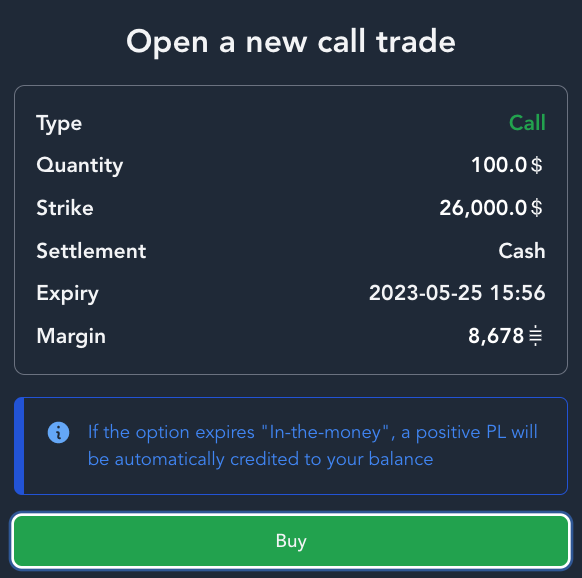
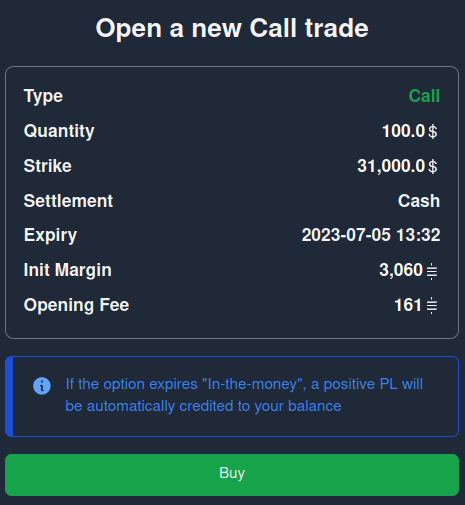
update options

diff --git a/src/faq/trading_options.md b/src/faq/trading_options.md
@@ -19,7 +19,7 @@ When we designed our options trading offering, we paid attention to making it si
 - They are all 24-hour options: they expire 1 day after opening the position (you can close them at any time before expiry).
 - The underlying of the option is the LNM perpetual future. The forward is the price of this future discounted at the time of expiry. Note that the forward is very close not to say equal to the price of the future because the expiry is only 24h.
 - We quote Bitcoin options with BTC as domestic currency, like is the case for inverse futures. Which means that the forward price parameter is expressed as USD/BTC. However, we display it as BTC/USD for simplicity reasons.
-- The Strike price parameter (price at which the option can be exercised) is expressed as USD/BTC, since BTC is the domestic currency. However, we display it as BTC/USD for simplicity reasons. We list 3 strikes 3 strikes for calls (next thousand down and 2 next thousands up) and for puts (next thousand up and two next thousands down), and 2 strikes for straddles (the two common to calls and puts).
+- The Strike price parameter (price at which the option can be exercised) is expressed as USD/BTC, since BTC is the domestic currency. However, we display it as BTC/USD for simplicity reasons. We list 3 strikes for calls (next thousand down and 2 next thousands up) and for puts (next thousand up and two next thousands down), and 2 strikes for straddles (the two common to calls and puts).
 For example, if bid price = 45,684.5 and offer price = 45,749.86:
     for call: Strike 1 = K1 = 45,000; Strike 2 =  K2 = 46,000; Strike 3 =  K3 = 47,000
     for put: Strike 1 = K1 = 46,000; Strike 2 =  K2 = 45,000; Strike 3 =  K3 = 44,000
@@ -29,7 +29,7 @@ With Cash delivery, you receive the PL of the option at the expiry = Max(Xt - K,
 With Physical delivery, if the option is “In-The-Money” at expiry, you receive delivery of a futures contract running for the given strike. This futures contract can be managed in the Futures section.
 - For the Volatility (%) parameter, we compute an implied volatility from market prices, which gives an indication of the expected movement of the underlying.
 - Delta is a risk metric that estimates the change in price of the option, given a 1 unit change in its underlying asset. It is computed with Black Scholes formula. With Bitcoin as a domestic currency, Delta is expressed in USD. It corresponds to the number of BTCUSD future contracts you would have to sell or buy to be delta hedged.
-- Margin is the premium of the option, expressed in sats. It is computed with Black Scholes formula, and depends on the volatility and the forward price. Margin corresponds to the amount you have to pay to buy a call or a put option. This amount is deducted from your Margin Available and added to your Margin Used.
+- Margin is the premium of the option, expressed in sats. It is equal to the option premium plus a maintenance margin. The option premium is computed with Black Scholes formula, and depends on the volatility and the forward price. The maintenance margin is the minimum amount to keep your position open (it includes closing fees). This margin amount is deducted from your Margin Available and added to your Margin Used.
 - Expiry is the exact time at which the option expires, 1 day after opening the position.
 
 ## How to trade options?
@@ -44,15 +44,18 @@ In order to trade options, the steps are:
 ## How to follow the life of an option?
 
 After buying an option, you can see it in the Running section of the deal blotter, at the bottom of the screen. Each line corresponds to an option, with:
-- Expiry of the option
 - Type: Call or Put
 - Quantity in USD
 - Strike
+- Expiry of the option
+- Delta (the Delta of a portfolio of options is the sum of all its Deltas)
+- Breakeven
+- Settlement: Cash or Physical
 - Volatility in %
 - Margin
 - PL = Mark-to-Market - margin (Mark-to-Market of the option is its price with the current volatility level, other parameters remaining the same)
-- Delta (the Delta of a portfolio of options is the sum of all its Deltas)
-- Settlement: Cash or Physical
+- Maintenance Margin
+
 
 In the risk section, on the lower left hand side of the screen, you can see in the PL section your global PL (sum of the PL of your options) and your global Delta (sum of the Deltas of your options).
 

diff --git a/src/es/faq/trading_options.md b/src/es/faq/trading_options.md
@@ -34,7 +34,7 @@ Con la entrega física, si la opción está "In-The-Money" al vencimiento, usted
 
 - La delta es una métrica de riesgo que estima el cambio en el precio de la opción, dado un cambio de 1 unidad en su activo subyacente. Se calcula con la fórmula de Black Scholes. Con Bitcoin como moneda doméstica, la Delta se expresa en USD. Corresponde al número de contratos futuros de BTCUSD que tendría que vender para estar cubierto por Delta. Al igual que con los futuros, tiene que pagar un margen para abrir el contrato de opciones (que corresponde a la prima de la opción).
 
-- El margen es la prima de la opción, expresada en sats. Se calcula con la fórmula de Black Scholes, y depende de la volatilidad y del precio a plazo. El margen corresponde a la cantidad que tiene que pagar para comprar una opción de compra o de venta. Esta cantidad se deduce de su Margen Disponible y se añade a su Margen Utilizado. 
+- El margen es la prima de la opción, expresada en sats. Es igual a la prima de la opción más un margen de mantenimiento. La prima de la opción se calcula con la fórmula de Black Scholes y depende de la volatilidad y el precio a plazo. El margen de mantenimiento es la cantidad mínima para mantener su posición abierta (incluye tarifas de cierre). El margen se deduce de su Margen Disponible y se añade a su Margen Utilizado. 
 
 - El vencimiento es el momento exacto en que la opción expira, 1 día después de la apertura de la posición.
 
@@ -50,15 +50,17 @@ Para operar con opciones, los pasos son los siguientes:
 ## ¿Cómo seguir la evolución de una opción?
 
 Después de comprar una opción, puede verla en el historial de operaciones, en la parte inferior de la pantalla. Cada línea corresponde a una opción, con las variables:
-- Vencimiento de la opción
 - Tipo: Call o Put
 - Cantidad en USD
 - Precio de ejercicio
-- Volatilidad en %
-- Margen
-- PL = Mark-to-Market - margen (el Mark-to-Market de la opción es su precio con el nivel de volatilidad actual, permaneciendo los demás parámetros iguales)
+- Vencimiento de la opción
 - Delta (la Delta de una cartera de opciones es la suma de todas sus Deltas)
+- Equilibrio
 - Liquidación: Efectivo o físico
+- Volatilidad en %
+- Margen Inicial
+- PL = Mark-to-Market - margen (el Mark-to-Market de la opción es su precio con el nivel de volatilidad actual, permaneciendo los demás parámetros iguales)
+- Margen de mantenimiento
 
 En la sección de riesgo, en la parte inferior izquierda de la pantalla, puede ver en la sección PL en su PL global (suma de los PL de sus opciones) y su Delta global (suma de los Deltas de sus opciones).
 

diff --git a/src/es/step/README.md b/src/es/step/README.md
@@ -103,9 +103,9 @@ Puede encontrar todas sus posiciones cerradas en el registro cerrado de la secci
 
 ## Operar Opciones
 
-LN Markets cotiza una oferta [bid] y una demanda [offer] (en la barra superior) y es la contraparte directa de todas las operaciones.
+LN Markets cotiza el precio de los Futuros (en la barra superior) y es la contraparte directa de todas las operaciones.
 
-En la sección de Opciones, puede negociar dos tipos de Opciones sobre el precio a plazo del BTCUSD: calls (opciones de compra) y puts (opciones de venta).
+En la sección de Opciones, puede negociar tres tipos de Opciones sobre el precio a plazo del BTCUSD: calls (opciones de compra) y puts (opciones de venta).
 
 <img :src="$withBase('/assets/options_trading.png')" alt="options_trading">
 
@@ -113,7 +113,7 @@ Queremos desmitificar las operaciones de opciones y hacerlas accesibles para tod
 - Sólo puedes comprar opciones. Si eres alcista, compra opciones de calls. Si eres bajista, compra opciones de puts. Si espera volatilidad pero no está seguro de la dirección, compre straddles.
 - Son opciones de 24 horas: expiran un día después de abrir la posición (puede cerrarlos en cualquier momento antes de que expiren).
 - Hay 3 strikes para las opciones de compra (el siguiente mil hacia abajo y los dos siguientes miles hacia arriba) y para las opciones de venta (el siguiente mil hacia arriba y los dos siguientes miles hacia abajo), y 2 strikes para las straddles (los dos comunes a call y put).
-- Al igual que con los futuros, tiene que pagar un margen para abrir el contrato de opciones (que corresponde a la prima de la opción).
+- Al igual que con los futuros, tiene que pagar un margen para abrir el contrato de opciones. Es igual a la prima de la opción más un margen de mantenimiento, que es la cantidad mínima para mantener su posición abierta (incluye tarifas de cierre). La tarifa de apertura se establece en 5 pb del nocional expresado en BTC al nivel de ejercicio (como el tarifa).
 - Para la entrega al vencimiento, puede elegir entre la entrega en efectivo (PL de la opción) o la entrega física: obtiene un contrato de futuros para el strike determinado.
 
 <img :src="$withBase('/assets/options_conf.png')" alt="options_conf">

diff --git a/src/step/README.md b/src/step/README.md
@@ -106,9 +106,9 @@ You can find all your closed positions in the Closed blotter in the lower sectio
 
 ## Options Trading
 
-We quote a bid-offer (in the upper bar) and we are direct counterparty to all trades.
+We quote a Futures price (in the upper bar) and we are direct counterparty to all trades.
 
-In the Options section, you can trade two types of Options on BTCUSD forward price: calls (options to buy), puts (options to sell) and straddles (combination of a call and a put for the same strike).
+In the Options section, you can trade three types of Options on BTCUSD forward price: calls (options to buy), puts (options to sell) and straddles (combination of a call and a put for the same strike).
 
 <img :src="$withBase('/assets/options_trading.png')" alt="options_trading">
 
@@ -116,7 +116,7 @@ We want to demystify options trading and make them accessible to all. That’s w
 - You can only buy options. If you’re a bull, buy calls. If you’re a bear, buy puts. If you expect volatility but are not sure of the direction, buy straddles.
 - They are 24-hour options: they expire 1 day after opening the position (you can close them at any time before expiry).
 - There are 3 strikes for calls (next thousand down and 2 next thousands up) and for puts (next thousand up and two next thousands down), and two strikes for straddles (the two common to calls and puts).
-- As with futures you have to pay a margin to open the option contract (which corresponds to the option premium).
+- As with futures you have to pay a margin to open the option contract. It is equal to the option premium plus a maintenance margin, which is the minimum amount to keep your position open (it includes closing fees).The opening fee is set to 5bp of the notional expressed in BTC at the strike level (like the closing fee).
 - For the delivery at expiry, you can choose cash delivery (PL of the option) or physical delivery: you get a futures contract running for the given strike.
 
 <img :src="$withBase('/assets/options_conf.png')" alt="options_conf">
